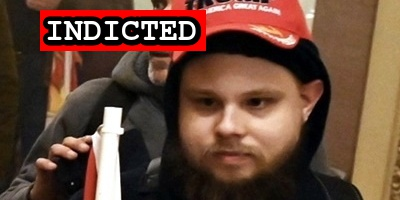
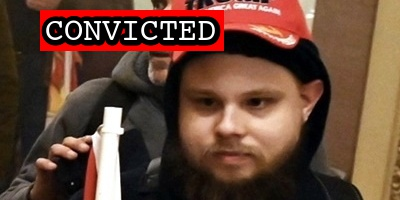
Rodean conviction

Changed region(s): [[0.09, 0.03, 0.57, 0.27]]

diff --git a/docs/_suspects/nicholas-rodean.md b/docs/_suspects/nicholas-rodean.md
@@ -4,11 +4,11 @@ lastName: Rodean
 hashtag: NicholasRodean
 aka:
 residence: Maryland
-status: Indicted
+status: Convicted
 date: 2021-01-13
 charged: 2021-01-13
 indicted: 2021-01-29
-convicted:
+convicted: 2022-07-12
 acquitted:
 sentenced:
 dismissed:
@@ -36,11 +36,41 @@ published: true
 caseNumber: 1:21-cr-57
 videos:
 charges:
+  - code: 18 USC § 1361
+    title: Destruction of Government Property
+    url: https://www.law.cornell.edu/uscode/text/18/1361
+    felony: true
+  - code: 18 USC § 1752(a)(1)
+    title: Entering a restricted building or grounds
+    url: https://www.law.cornell.edu/uscode/text/18/1752
+    felony: false
+  - code: 18 USC § 1752(a)(2)
+    title: Disorderly and disruptive conduct in a restricted building or grounds
+    url: https://www.law.cornell.edu/uscode/text/18/1752
+    felony: false
+  - code: 18 USC § 1752(a)(4)
+    title: Engaging in physitical violence in a restricted building
+    url: https://www.law.cornell.edu/uscode/text/18/1752
+    felony: false
+  - code: 40 USC § 5104(e)(2)(D)
+    title: Disorderly Conduct in a Capitol Building
+    url: https://www.law.cornell.edu/uscode/text/40/5104
+    felony: false
+  - code: 40 USC § 5104(e)(2)(F)
+    title: Act of physical violence on Capitol grounds
+    url: https://www.law.cornell.edu/uscode/text/40/5104
+    felony: false
+  - code: 40 USC § 5104(e)(2)(G)
+    title: Parading, Demonstrating or Picketing in a Capitol Building
+    url: https://www.law.cornell.edu/uscode/text/40/5104
+    felony: false
 sentence:
 ---
+
 - [News Report](https://baltimore.cbslocal.com/2021/01/13/maryland-man-nicholas-rodean-who-went-into-us-capitol-during-riots-wearing-work-badge-arrested-on-federal-charges/)
 - [DOJ Press Release](https://www.justice.gov/usao-dc/pr/seven-charged-federal-court-following-events-united-capitol)
 - [Statement of Facts](https://www.justice.gov/usao-dc/press-release/file/1353226/download)
 - [Complaint](https://www.justice.gov/usao-dc/press-release/file/1353221/download)
 - [Indictment](https://www.justice.gov/usao-dc/case-multi-defendant/file/1517561/download)
 - [Information](https://www.justice.gov/usao-dc/case-multi-defendant/file/1365231/download)
+- [DOJ Press Release (Conviction)](https://www.justice.gov/usao-dc/pr/maryland-man-found-guilty-charges-actions-related-capitol-breach)
